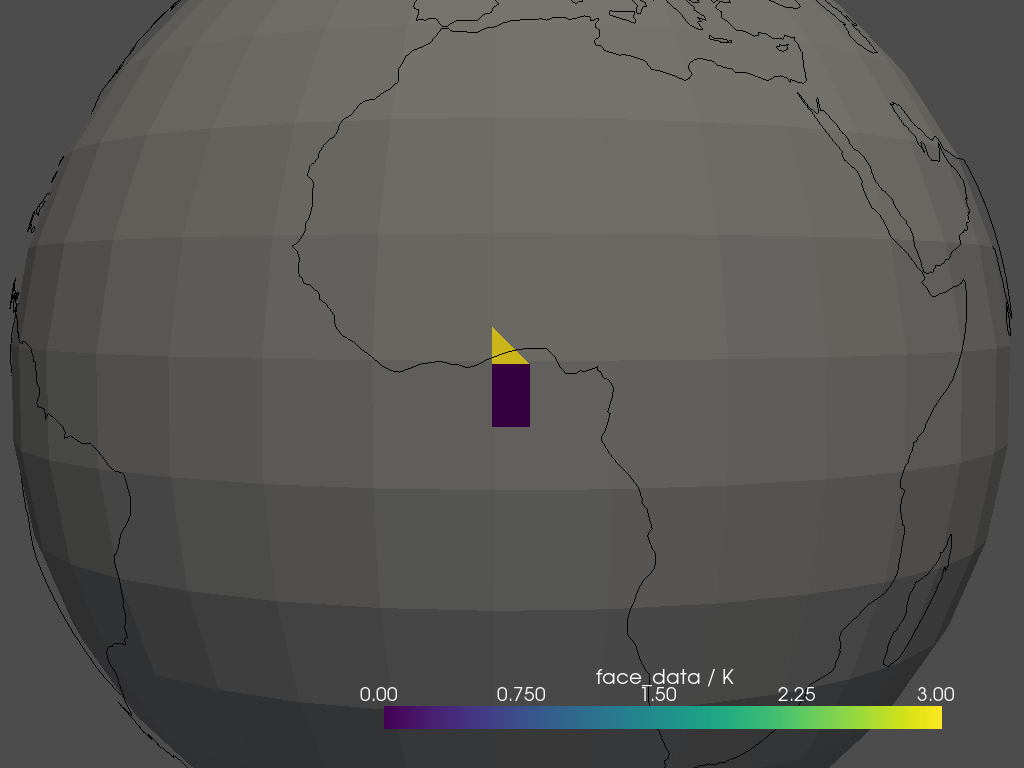
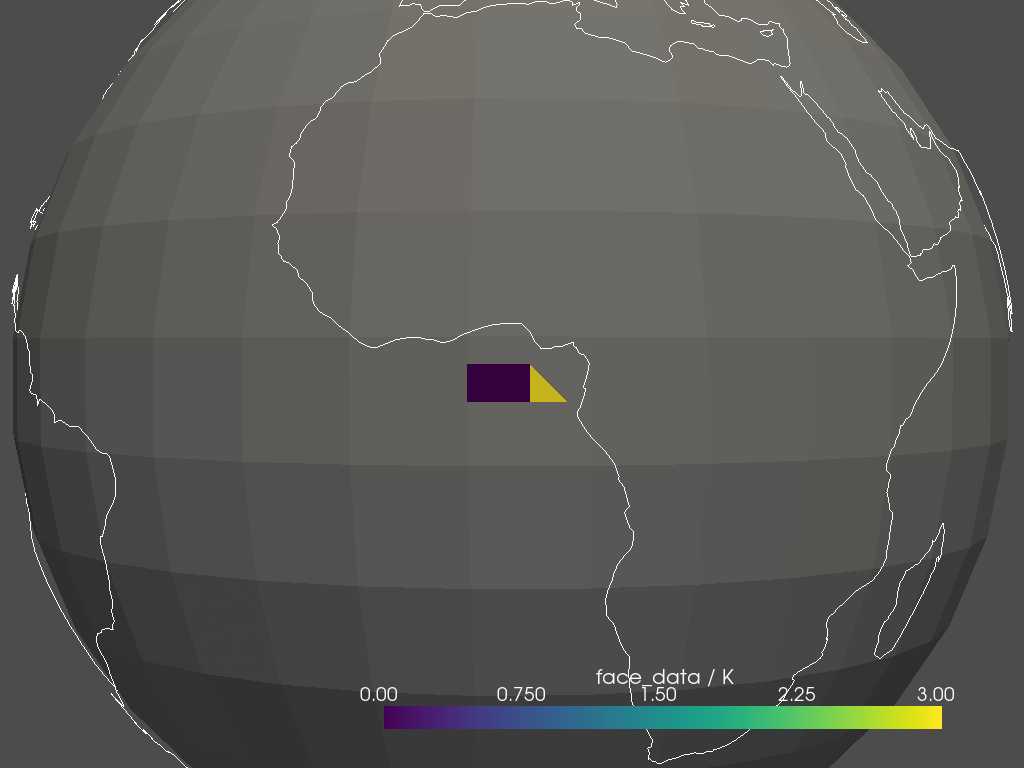
UGRID docs lat-lon switcheroo.

diff --git a/docs/src/further_topics/ugrid/data_model.rst b/docs/src/further_topics/ugrid/data_model.rst
@@ -335,12 +335,12 @@ the :class:`~iris.cube.Cube`\'s unstructured dimension.
         from iris.experimental.ugrid import Connectivity, Mesh
 
         node_x = AuxCoord(
-                     points=[3.0, 3.0, 0.0, 0.0, 0.0],
+                     points=[0.0, 5.0, 0.0, 5.0, 8.0],
                      standard_name="longitude",
                      units="degrees_east",
                  )
         node_y = AuxCoord(
-                     points=[0.0, 5.0, 0.0, 5.0, 8.0],
+                     points=[3.0, 3.0, 0.0, 0.0, 0.0],
                      standard_name="latitude",
                      units="degrees_north",
                  )
@@ -533,21 +533,6 @@ given only the ``location`` argument
         MeshCoord :  latitude / (degrees_north)
             mesh: <Mesh: 'my_mesh'>
             location: 'edge'
-            points: [2.5, 0. , 5. , 6.5, 2.5, 6.5]
-            bounds: [
-                [0., 5.],
-                [0., 0.],
-                [5., 5.],
-                [5., 8.],
-                [0., 5.],
-                [5., 8.]]
-            shape: (6,)  bounds(6, 2)
-            dtype: float64
-            standard_name: 'latitude'
-            axis: 'y'
-        MeshCoord :  longitude / (degrees_east)
-            mesh: <Mesh: 'my_mesh'>
-            location: 'edge'
             points: [3. , 1.5, 1.5, 1.5, 0. , 0. ]
             bounds: [
                 [3., 3.],
@@ -556,6 +541,21 @@ given only the ``location`` argument
                 [3., 0.],
                 [0., 0.],
                 [0., 0.]]
+            shape: (6,)  bounds(6, 2)
+            dtype: float64
+            standard_name: 'latitude'
+            axis: 'y'
+        MeshCoord :  longitude / (degrees_east)
+            mesh: <Mesh: 'my_mesh'>
+            location: 'edge'
+            points: [2.5, 0. , 5. , 6.5, 2.5, 6.5]
+            bounds: [
+                [0., 5.],
+                [0., 0.],
+                [5., 5.],
+                [5., 8.],
+                [0., 5.],
+                [5., 8.]]
             shape: (6,)  bounds(6, 2)
             dtype: float64
             standard_name: 'longitude'

diff --git a/docs/src/further_topics/ugrid/operations.rst b/docs/src/further_topics/ugrid/operations.rst
@@ -71,12 +71,12 @@ subsequent example operations on this page.
         #  2----3--4
 
         >>> node_x = AuxCoord(
-        ...     points=[3.0, 3.0, 0.0, 0.0, 0.0],
+        ...     points=[0.0, 5.0, 0.0, 5.0, 8.0],
         ...     standard_name="longitude",
         ...     units="degrees_east",
         ...     long_name="node_x_coordinates",
         ... )
-        >>> node_y = AuxCoord(points=[0.0, 5.0, 0.0, 5.0, 8.0], standard_name="latitude")
+        >>> node_y = AuxCoord(points=[3.0, 3.0, 0.0, 0.0, 0.0], standard_name="latitude")
 
         >>> face_x = AuxCoord([2.0, 6.0], "longitude")
         >>> face_y = AuxCoord([1.0, 1.0], "latitude")
@@ -469,12 +469,12 @@ earlier:
         # Just plotting a single height level.
         >>> face_polydata = cube_faces_to_polydata(face_cube[:, 0])
         >>> print(face_polydata)
-        PolyData (0x7fb854a9ce80)
+        PolyData (0x7ff4861ff4c0)
           N Cells:	2
           N Points:	5
           X Bounds:	9.903e-01, 1.000e+00
-          Y Bounds:	0.000e+00, 5.234e-02
-          Z Bounds:	6.123e-17, 1.392e-01
+          Y Bounds:	0.000e+00, 1.392e-01
+          Z Bounds:	6.123e-17, 5.234e-02
           N Arrays:	2
 
         # Create the GeoVista plotter and add our mesh+data to it.
